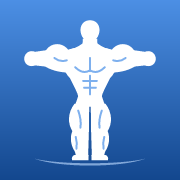
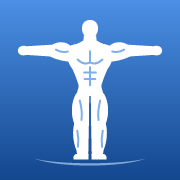
イラストの人を細マッチョに：腕と脚をさらに長く、筋肉は控えめで引き締まった体型に

Changed region(s): [[0.0833, 0.1111, 0.9167, 0.9167], [0.4722, 0.2778, 0.5278, 0.3056]]

diff --git a/src/illustrations/shapes.ts b/src/illustrations/shapes.ts
@@ -14,27 +14,27 @@ function mirror(d: string) {
 }
 
 const leftArm =
-  // 肩 → 力こぶの山 → ひじ → 前腕 → こぶし → 腕の下側 → わきの下
-  'M37 25.5 C34 19 25.5 18 21.5 24 L14.5 25 C11 23.5 7.5 26 7.5 29.5 C7.5 33 11 35.3 14.5 33.8 L21 34.5 C26 37.5 32 38.5 38 38.5 Z';
+  // 肩 → 控えめな力こぶ → ひじ → 長めの前腕 → こぶし → 腕の下側 → わきの下
+  'M38.5 22.2 C35.5 18.4 30 17.8 25.5 20.4 L9 21.4 C6 20.4 3.4 22 3.4 24.2 C3.4 26.6 6 28 9 27 L24 28 C29 30.4 34 31.4 39.5 31.6 Z';
 const leftLeg =
-  // 太もものふくらみ → ひざで細く → ふくらはぎ → 足首。脚は長めにしてスタイリッシュに
-  'M40 58.5 C35.4 64.5 35.6 71.5 38.6 76.2 C37 80 37.4 85.4 40.2 89.4 L41 92.4 L48.8 92.4 L49.3 76 L49.5 58.5 Z';
-const leftFoot = 'M40.2 91.6 L49 91.6 L49 95 L38.4 95 C37.9 93.4 38.7 92 40.2 91.6 Z';
+  // 引き締まった太もも → ひざで細く → ふくらはぎ → 足首。脚は長め
+  'M41 52 C37.6 58 37.6 65.5 39.8 71.5 C38.6 76 38.8 82.5 41.2 88.6 L41.8 91.8 L48.9 91.8 L49.3 71.5 L49.5 52 Z';
+const leftFoot = 'M41 91 L49 91 L49 94.6 L39.4 94.6 C38.9 93 39.6 91.5 41 91 Z';
 
-/** ムキムキの人（T の字のポーズ：両腕を真横に広げて力こぶ）。頭は小さめ、脚は長めの8頭身 */
+/** 細マッチョの人（T の字のポーズ：両腕を真横に広げる）。頭は小さめ、腕と脚は長め */
 export const MUSCLE_MAN = {
   /** 体のシルエット（塗りつぶし） */
   body: [
     // 頭（あごが少しとがった卵形）
-    'M50 4.6 C54.2 4.6 56.4 7.8 56.1 11.6 C55.8 15.2 53.5 18.2 50 19 C46.5 18.2 44.2 15.2 43.9 11.6 C43.6 7.8 45.8 4.6 50 4.6 Z',
-    // 首と、首から肩への盛り上がり（僧帽筋）
-    'M45.4 16.5 L54.6 16.5 L54.8 19.6 C57.8 22 61.2 23.2 65.4 24.2 L34.6 24.2 C38.8 23.2 42.2 22 45.2 19.6 Z',
-    // 胴体（肩幅が広く、腰にかけて細くなる逆三角形）
-    'M35 24 C42 21 58 21 65 24 C69 30.5 67.5 37.5 63 42 C60.4 47 58.2 51 57.2 55 L42.8 55 C41.8 51 39.6 47 37 42 C32.5 37.5 31 30.5 35 24 Z',
+    'M50 4.4 C53.6 4.4 55.4 7.2 55.2 10.4 C55 13.4 53 16 50 16.6 C47 16 45 13.4 44.8 10.4 C44.6 7.2 46.4 4.4 50 4.4 Z',
+    // 首と、首から肩へのなだらかな盛り上がり
+    'M46 14.5 L54 14.5 L54.2 17.6 C56.8 19.4 59.4 20.4 62.6 21.2 L37.4 21.2 C40.6 20.4 43.2 19.4 45.8 17.6 Z',
+    // 胴体（ほどよい逆三角形）
+    'M37.5 21 C43 18.6 57 18.6 62.5 21 C65.6 26.5 64.8 32 61.4 36 C59.4 40.4 57.8 44.4 57 48.4 L43 48.4 C42.2 44.4 40.6 40.4 38.6 36 C35.2 32 34.4 26.5 37.5 21 Z',
     leftArm,
     mirror(leftArm),
     // 腰まわり
-    'M42.6 53 L57.4 53 L60 60.5 L40 60.5 Z',
+    'M43 46.5 L57 46.5 L59 53.5 L41 53.5 Z',
     leftLeg,
     mirror(leftLeg),
     leftFoot,
@@ -43,21 +43,21 @@ export const MUSCLE_MAN = {
   /** 筋肉のすじ（背景色に近い色の線で描く） */
   lines: [
     // 胸
-    'M50 29 L50 37.5',
-    'M40.5 35 C44 38.5 47.5 38.5 50 37 C52.5 38.5 56 38.5 59.5 35',
+    'M50 24.6 L50 32',
+    'M42 30 C45 33 47.8 33 50 31.8 C52.2 33 55 33 58 30',
     // 腹筋
-    'M50 40.5 L50 52.5',
-    'M45.6 43.8 L54.4 43.8',
-    'M46.2 48.2 L53.8 48.2',
+    'M50 35 L50 46.6',
+    'M46.2 38.4 L53.8 38.4',
+    'M46.6 42.6 L53.4 42.6',
     // 力こぶ
-    'M27 29 C29.5 31 32.5 31.3 35 30.5',
-    mirror('M27 29 C29.5 31 32.5 31.3 35 30.5'),
+    'M28 23.6 C30.6 25.2 33.4 25.4 35.6 24.8',
+    mirror('M28 23.6 C30.6 25.2 33.4 25.4 35.6 24.8'),
     // 太もも
-    'M42.4 63 C43.8 67 44.4 70.5 43.8 74',
-    mirror('M42.4 63 C43.8 67 44.4 70.5 43.8 74'),
+    'M43.4 56.5 C44.6 61 45 65 44.5 69',
+    mirror('M43.4 56.5 C44.6 61 45 65 44.5 69'),
     // ふくらはぎ
-    'M40.8 80 C41.6 83 41.6 85.6 41.2 87.6',
-    mirror('M40.8 80 C41.6 83 41.6 85.6 41.2 87.6'),
+    'M41.8 76 C42.6 80 42.6 83.6 42.2 86.4',
+    mirror('M41.8 76 C42.6 80 42.6 83.6 42.2 86.4'),
   ],
 };
 
